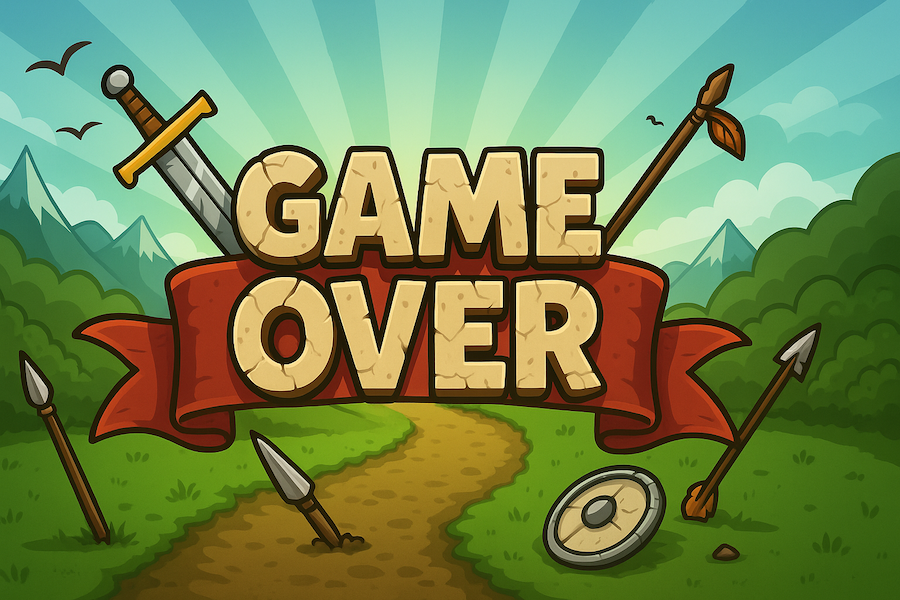
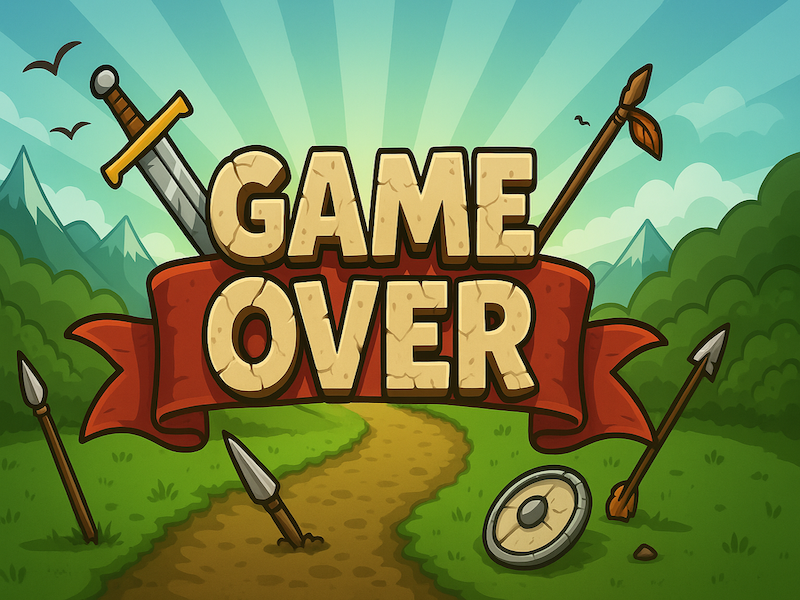
Updated game state for game over logic

diff --git a/src/main/java/com/canja/kutowerdefence/ui/GamePlayView.java b/src/main/java/com/canja/kutowerdefence/ui/GamePlayView.java
@@ -273,8 +273,10 @@ public class GamePlayView implements Initializable {
                     float deltaTime = (now - lastTime) / 1_000_000_000f;
                     controller.getGameSession().tick(deltaTime);
 
-                    if(controller.getGameState()){
-                        showGameOver();
+                    if(controller.getGameState()==2){
+                        showGameOver(false);
+                    } else if (controller.getGameState()==1) {
+                        showGameOver(true);
                     }
                     updateEnemies(deltaTime, controller.getPauseState());
                 }
@@ -284,12 +286,17 @@ public class GamePlayView implements Initializable {
         timer.start();
     }
 
-    public void showGameOver() {
+    public void showGameOver(boolean success) {
         waveController.stopAll();
         controller.getGameSession().clearActiveEnemiesTowers();
         enemyViews.clear();
         enemyLayer.getChildren().clear();
-        File bgFile = new File("src/main/resources/assets/gameover.png");
+        File bgFile;
+        if (success) {
+            bgFile = new File("src/main/resources/assets/gamesuccess.png");
+        } else {
+            bgFile = new File("src/main/resources/assets/gameover.png");
+        }
         BackgroundImage bgImage = new BackgroundImage(new Image(bgFile.toURI().toString()),
                 BackgroundRepeat.REPEAT, BackgroundRepeat.NO_REPEAT, BackgroundPosition.CENTER,
                 new BackgroundSize(600, 800, false, false, true, true));

diff --git a/src/main/java/com/canja/kutowerdefence/domain/GameSession.java b/src/main/java/com/canja/kutowerdefence/domain/GameSession.java
@@ -32,7 +32,7 @@ public class GameSession {
     private int waveNumber;
     private int currentWave;
 
-    public boolean gameOver;
+    public int gameOver;
 
     private final List<Tower> activeTowers = new ArrayList<>();
     private final List<Enemy> activeEnemies = new ArrayList<>();
@@ -66,7 +66,7 @@ public class GameSession {
         this.player = new Player(optionValues[Option.GOLD.ordinal()], optionValues[Option.PLAYER_HITPOINT.ordinal()]);
         player.setGoldAmount(playerInfo[0]);
         player.setHealth(playerInfo[1]);
-        this.gameOver = false;
+        this.gameOver=0;
         InitializeSession();
     }
 
@@ -159,9 +159,9 @@ public class GameSession {
         waveNumber = number;
     }
 
-    public boolean isGameOver() {return gameOver;}
+    public int isGameOver() {return gameOver;}
 
-    public void setGameOver(boolean over) {gameOver = over;}
+    public void setGameOver(int over) {gameOver = over;}
 
     public String getWaveInfo() {
         String waveInfo = currentWave + "/" + waveNumber;
@@ -266,7 +266,7 @@ public class GameSession {
     }
 
     public void resetSession() {
-        this.gameOver = false;
+        this.gameOver = 0;
         this.currentWave = 1;
         this.waveNumber = optionValues[Option.WAVE_NUMBER.ordinal()];
 

diff --git a/src/main/java/com/canja/kutowerdefence/controller/GamePlayController.java b/src/main/java/com/canja/kutowerdefence/controller/GamePlayController.java
@@ -75,7 +75,7 @@ public class GamePlayController {
         return gameSession.getPauseState();
     }
 
-    public boolean getGameState(){return gameSession.isGameOver();}
+    public int getGameState(){return gameSession.isGameOver();}
 
     public void setView(GamePlayView view) {
         this.view = view;
@@ -169,8 +169,10 @@ public class GamePlayController {
     }
 
     public void updateGameState(){
-        if(getHealth()<=0 || (gameSession.getCurrentWave() > gameSession.getWaveNumber() && gameSession.getEnemies().isEmpty())) {
-            gameSession.setGameOver(true);
+        if(getHealth()<=0) {
+            gameSession.setGameOver(2);
+        } else if (gameSession.getCurrentWave() > gameSession.getWaveNumber() && gameSession.getEnemies().isEmpty()){
+            gameSession.setGameOver(1);
         }
     }
     public void putObjectOnMapView(MapObject mapObject) {
